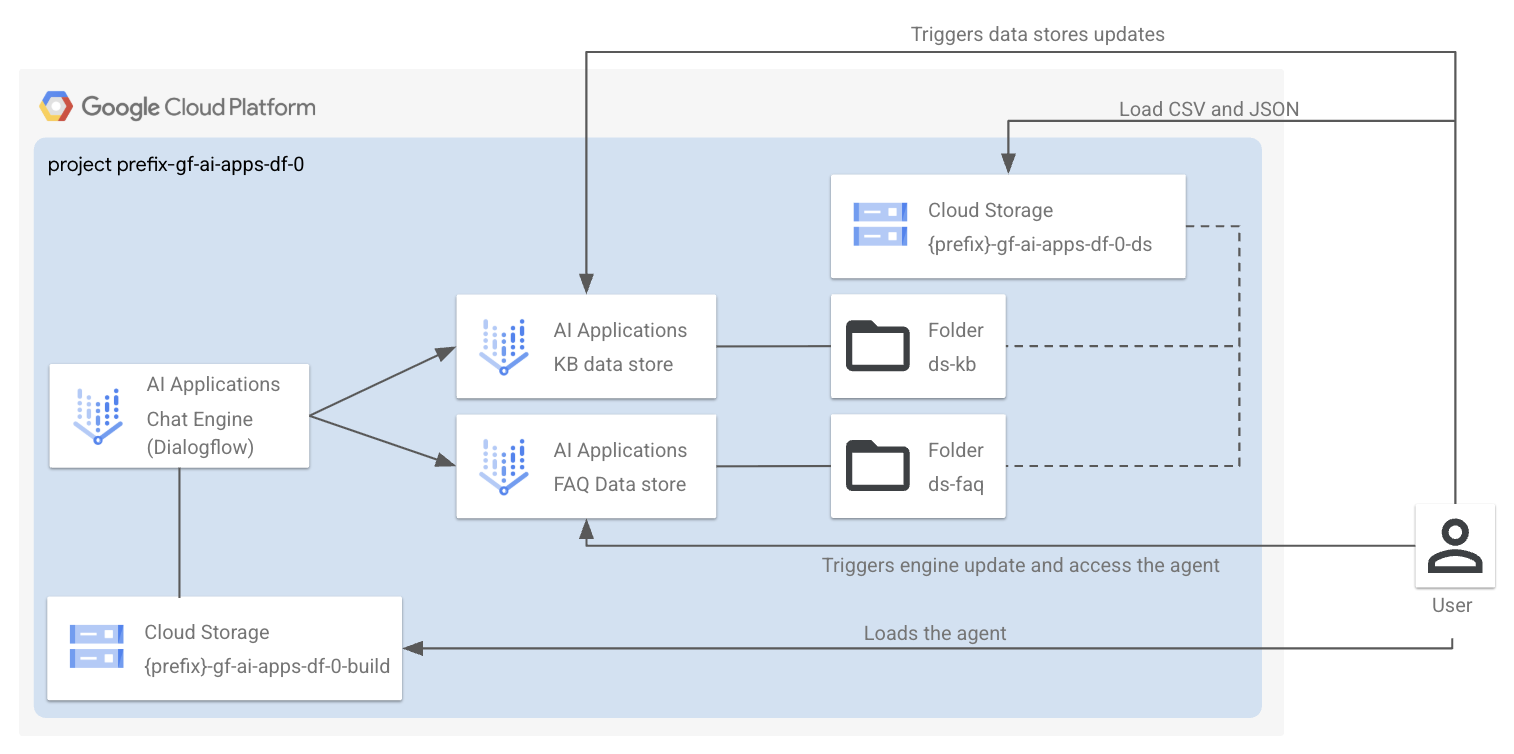
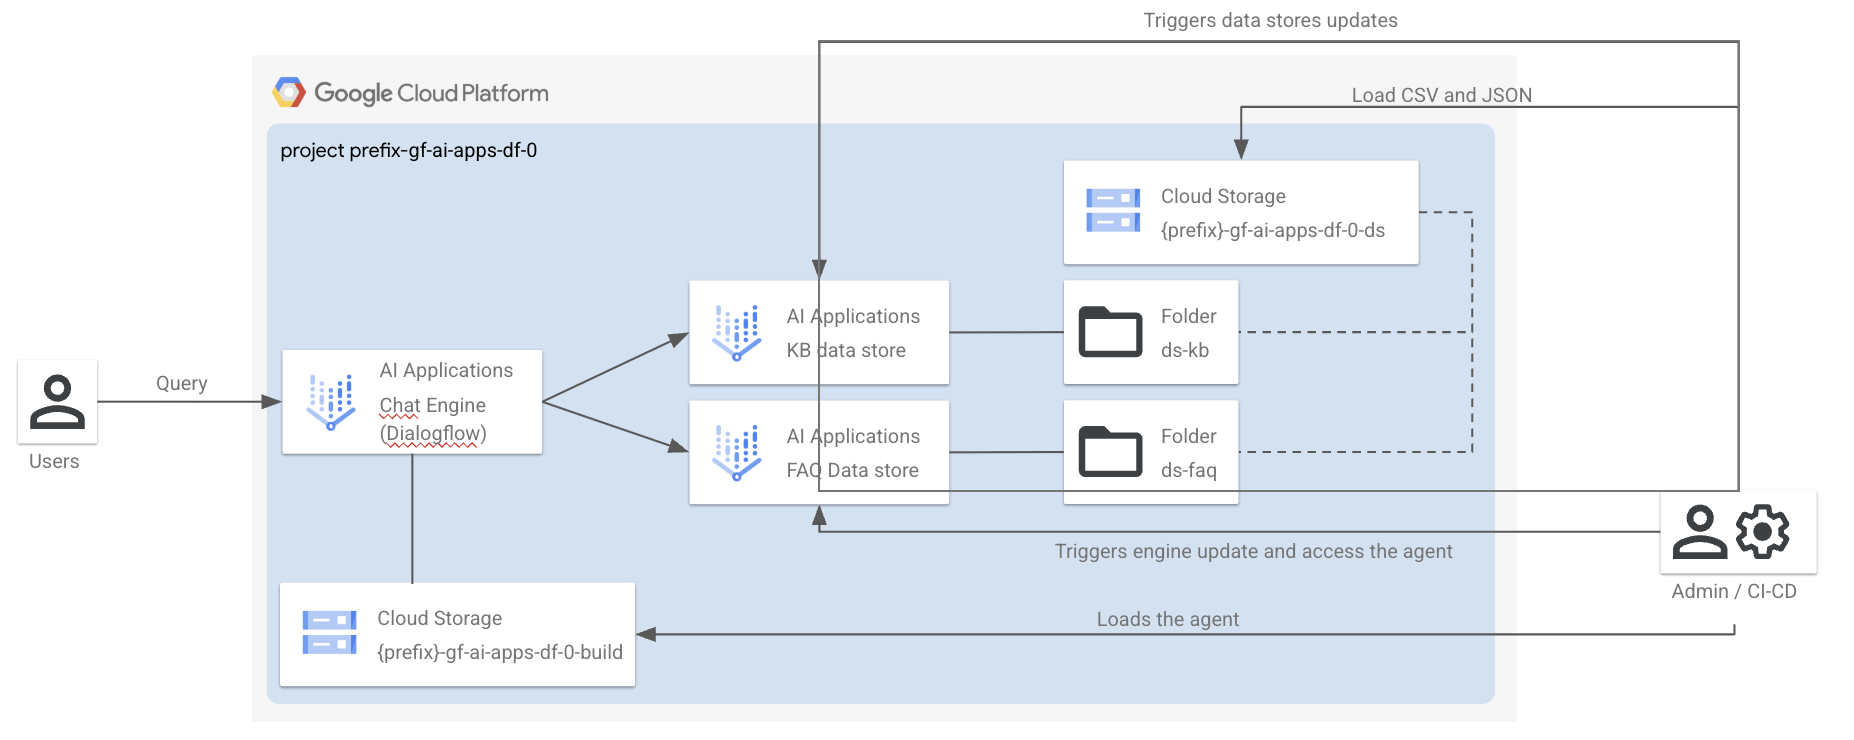
Final update

Changed region(s): [[0.0, 0.0622, 0.9934, 0.9635], [0.4346, 0.0, 0.9313, 0.0932]]

diff --git a/ai-apps-conversational/1-apps/README.md b/ai-apps-conversational/1-apps/README.md
@@ -14,41 +14,38 @@ cp terraform.tfvars.sample terraform.tfvars # Customize
 terraform init
 terraform apply
 
-# Follow the commands in the output.
+# Follow the commands at screen to:
+# - Push some sample data to the ds GCS bucket and load it into the data stores
+# - Build the agent and push it to the chat engine (Dialogflow CX)
+# - Query the agent
 ```
 
 ## I have not used 0-projects
 
 The [0-projects](../0-projects) module also produces the Terraform input files needed for this stage to work. If you are not leveraging [0-projects](../0-projects) it's your responsibility to create the `terraform.tfvars` file, reflecting what's requested by [variables.tf](./variables.tf) in this module.
 
-## Concepts
+## Manage agent variants
 
-- A copy of your agent is stored in the `agents/` folder.
-- A build step will automatically update resource references (e.g. Data Store names) within the agent definitions before pushing, to keep consistency with the ones that are deployed via Terraform
-- You can define arbitrary agent variants, as long as they are compatible with the Terraform definition. Each variant is stored in a `agents/<agent_variant>` folder.
-- You can pull changes from an external agent into each of the variants
+- A copy of your (default variant) agent configuration is available in the `data/agents` folder.
+- After you apply `1-apps`, you'll see commands build the agent and push it to Dialogflow CX.
+- You can define more agent variants by creating your configuration directory in `data/agents` and updating the Terraform variable `agent_configs.variant`. Output commands to build the agent will be automatically updated.
 
-## Pull changes from a remote agent
+## Pull remote agents
 
-If you are maintaining a separate development copy of your agent and want to pull its content to your local versioned copy, you may do as follows:
+You can pull remote copies of your agent variants into your `data/agents` directory by using this command:
 
-1. Make sure you have selected the right Terraform workspace and you have ran a `terraform apply` with its `.tfvars` file.
-1. Pull the agent:
-
-   ```bash
-   uv run ./scripts/pull_agent.sh
-   ```
-
-The script will read your Terraform outputs to know which agent to pull (`agent_remote`) and where to put it (`agents/${agent_variant}`).
+```shell
+uv run tools/agentutil.py pull_agent {AGENT_REMOTE} data/agents/{AGENT_VARIANT}
+```
 <!-- BEGIN TFDOC -->
 ## Variables
 
 | name | description | type | required | default |
 |---|---|:---:|:---:|:---:|
 | [project_config](variables.tf#L39) | The project where to create the resources. | <code title="object&#40;&#123;&#10;  id     &#61; string&#10;  number &#61; string&#10;  prefix &#61; string&#10;&#125;&#41;">object&#40;&#123;&#8230;&#125;&#41;</code> | ✓ |  |
-| [agent_configs](variables.tf#L15) | The AI Applications Dialogflow agent configurations. | <code title="object&#40;&#123;&#10;  language &#61; optional&#40;string, &#34;en-US&#34;&#41;&#10;  variant  &#61; optional&#40;string, &#34;default&#34;&#41;&#10;&#125;&#41;">object&#40;&#123;&#8230;&#125;&#41;</code> |  | <code>&#123;&#125;</code> |
+| [agent_configs](variables.tf#L15) | The AI Applications Dialogflow agent configurations. | <code title="object&#40;&#123;&#10;  language &#61; optional&#40;string, &#34;en&#34;&#41;&#10;  variant  &#61; optional&#40;string, &#34;default&#34;&#41;&#10;&#125;&#41;">object&#40;&#123;&#8230;&#125;&#41;</code> |  | <code>&#123;&#125;</code> |
 | [enable_deletion_protection](variables.tf#L25) | Whether deletion protection should be enabled. | <code>bool</code> |  | <code>true</code> |
-| [name](variables.tf#L32) | The name of the resources. This is also the project suffix if a new project is created. | <code>string</code> |  | <code>&#34;gf-rrag-0&#34;</code> |
+| [name](variables.tf#L32) | The name of the resources. This is also the project suffix if a new project is created. | <code>string</code> |  | <code>&#34;gf-ai-apps-df-0&#34;</code> |
 | [region](variables.tf#L49) | The GCP region where to deploy the resources. | <code>string</code> |  | <code>&#34;europe-west1&#34;</code> |
 | [region_ai_applications](variables.tf#L56) | The GCP region where to deploy the data store and Dialogflow. | <code>string</code> |  | <code>&#34;global&#34;</code> |
 | [service_accounts](variables.tf#L63) | The pre-created service accounts used by the blueprint. | <code title="map&#40;object&#40;&#123;&#10;  email     &#61; string&#10;  iam_email &#61; string&#10;  id        &#61; string&#10;&#125;&#41;&#41;">map&#40;object&#40;&#123;&#8230;&#125;&#41;&#41;</code> |  | <code>&#123;&#125;</code> |
@@ -57,5 +54,5 @@ The script will read your Terraform outputs to know which agent to pull (`agent_
 
 | name | description | sensitive |
 |---|---|:---:|
-| [commands](outputs.tf#L31) | Run these commands to complete the deployment. |  |
+| [commands](outputs.tf#L33) | Run these commands to complete the deployment. |  |
 <!-- END TFDOC -->

diff --git a/ai-apps-conversational/README.md b/ai-apps-conversational/README.md
@@ -1,0 +1,24 @@
+# AI Applications - Conversational Agents (Dialogflow)
+
+This module deploys an [AI Applications](https://cloud.google.com/generative-ai-app-builder/docs/introduction) chat engine ([Dialogflow CX](https://cloud.google.com/dialogflow/docs)) backed by two [data stores](https://cloud.google.com/dialogflow/cx/docs/concept/data-store), both reading data (csv and json) from a [Google Cloud Storage (GCS) bucket](https://cloud.google.com/storage/docs/introduction).
+
+![Architecture Diagram](./diagram.png)
+
+## Core Components
+
+The deployment consists of the following key components:
+
+- **AI Application (Dialogflow)**
+  - An **FAQ data store** that stores csv files sourced from the ds GCS bucket (see below).
+  - A **KB data store** that stores json files sourced from the ds GCS bucket (see below).
+  - A **Chat Engine** ([Dialogflow CX](https://cloud.google.com/dialogflow/docs)), backed by the data stores above.
+
+- **Storage**
+- A **GCS bucket (ds)** to source (csv and json) data for AI Applications data stores.
+- A **GCS bucket (build)** to source the AI Applications engine (Dialogflow agent configuration) from.
+
+## Apply the factory
+
+- Enter the [0-projects](0-projects/README.md) folder and follow the instructions to setup your GCP project, service accounts and permissions
+- Go to the [1-apps](1-apps/README.md) folder and follow the instructions to deploy the components inside the project
+- Follow the commands at screen
